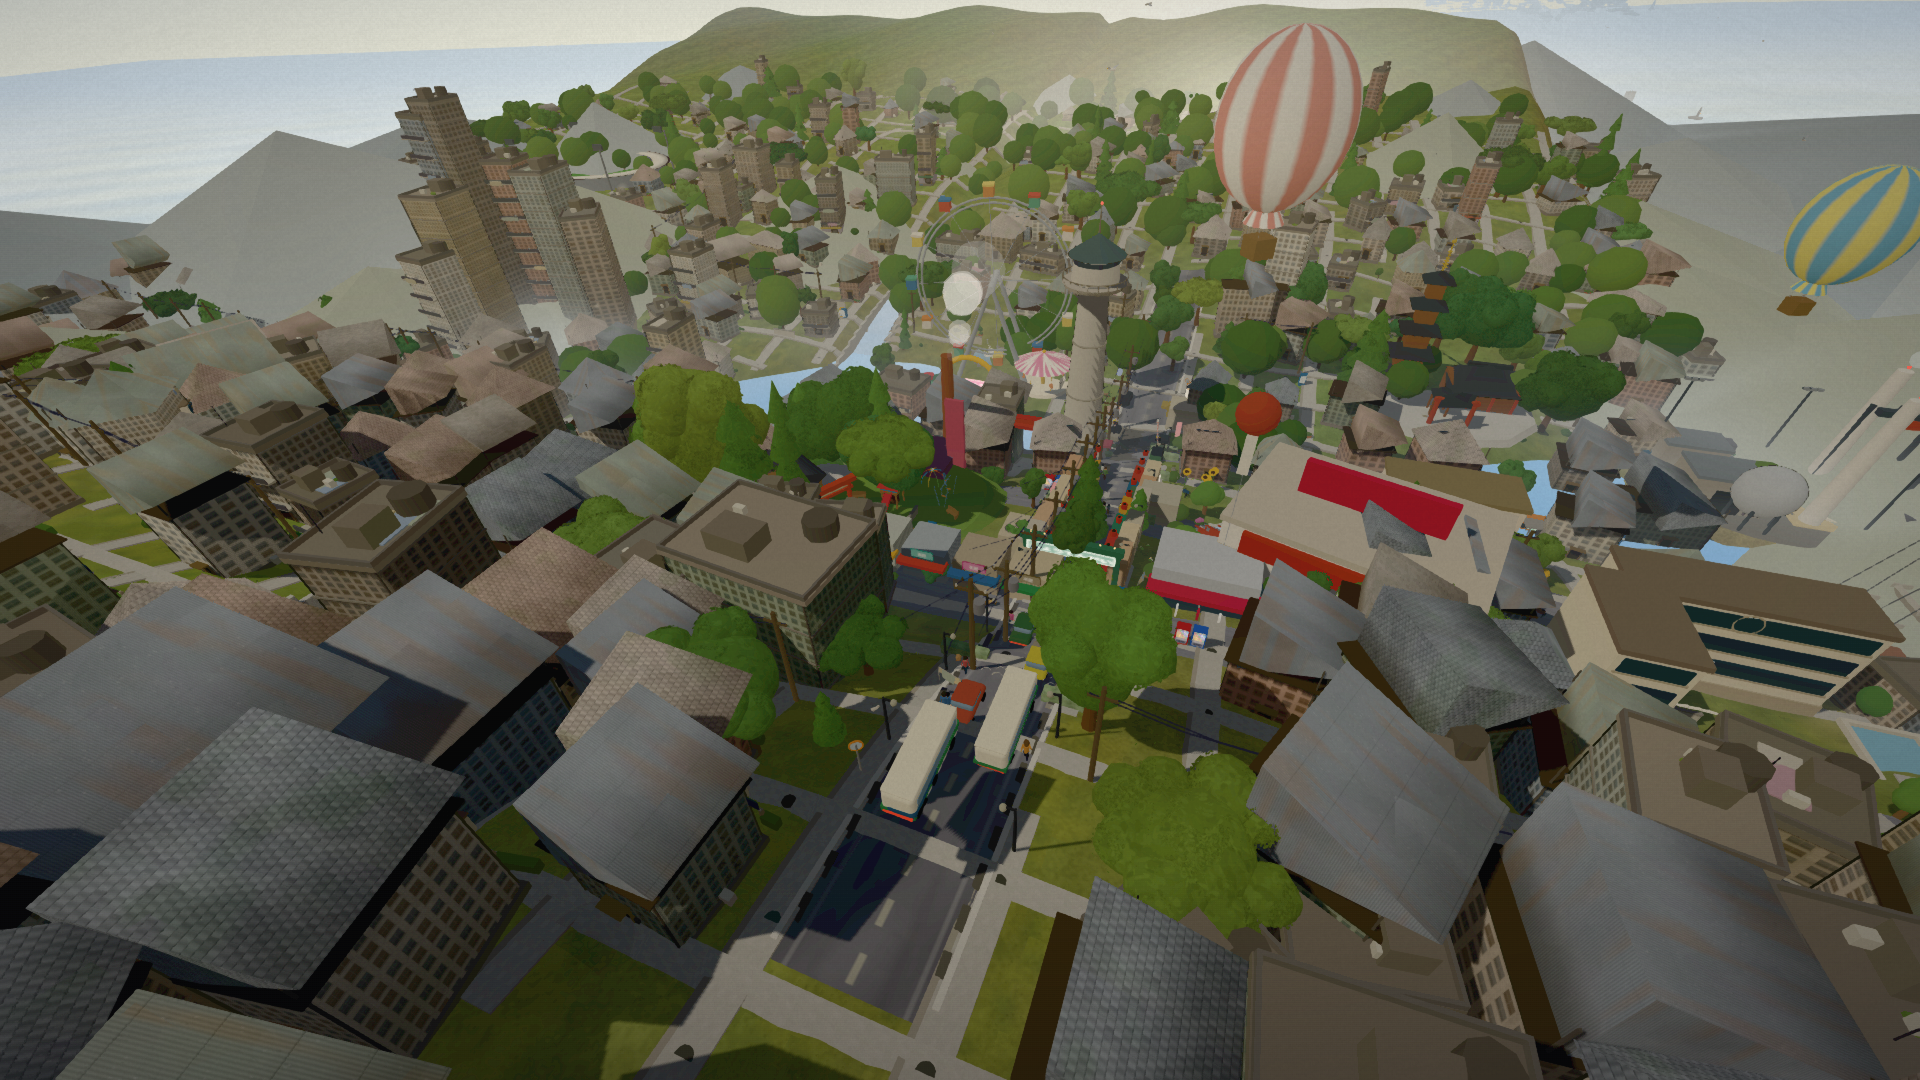
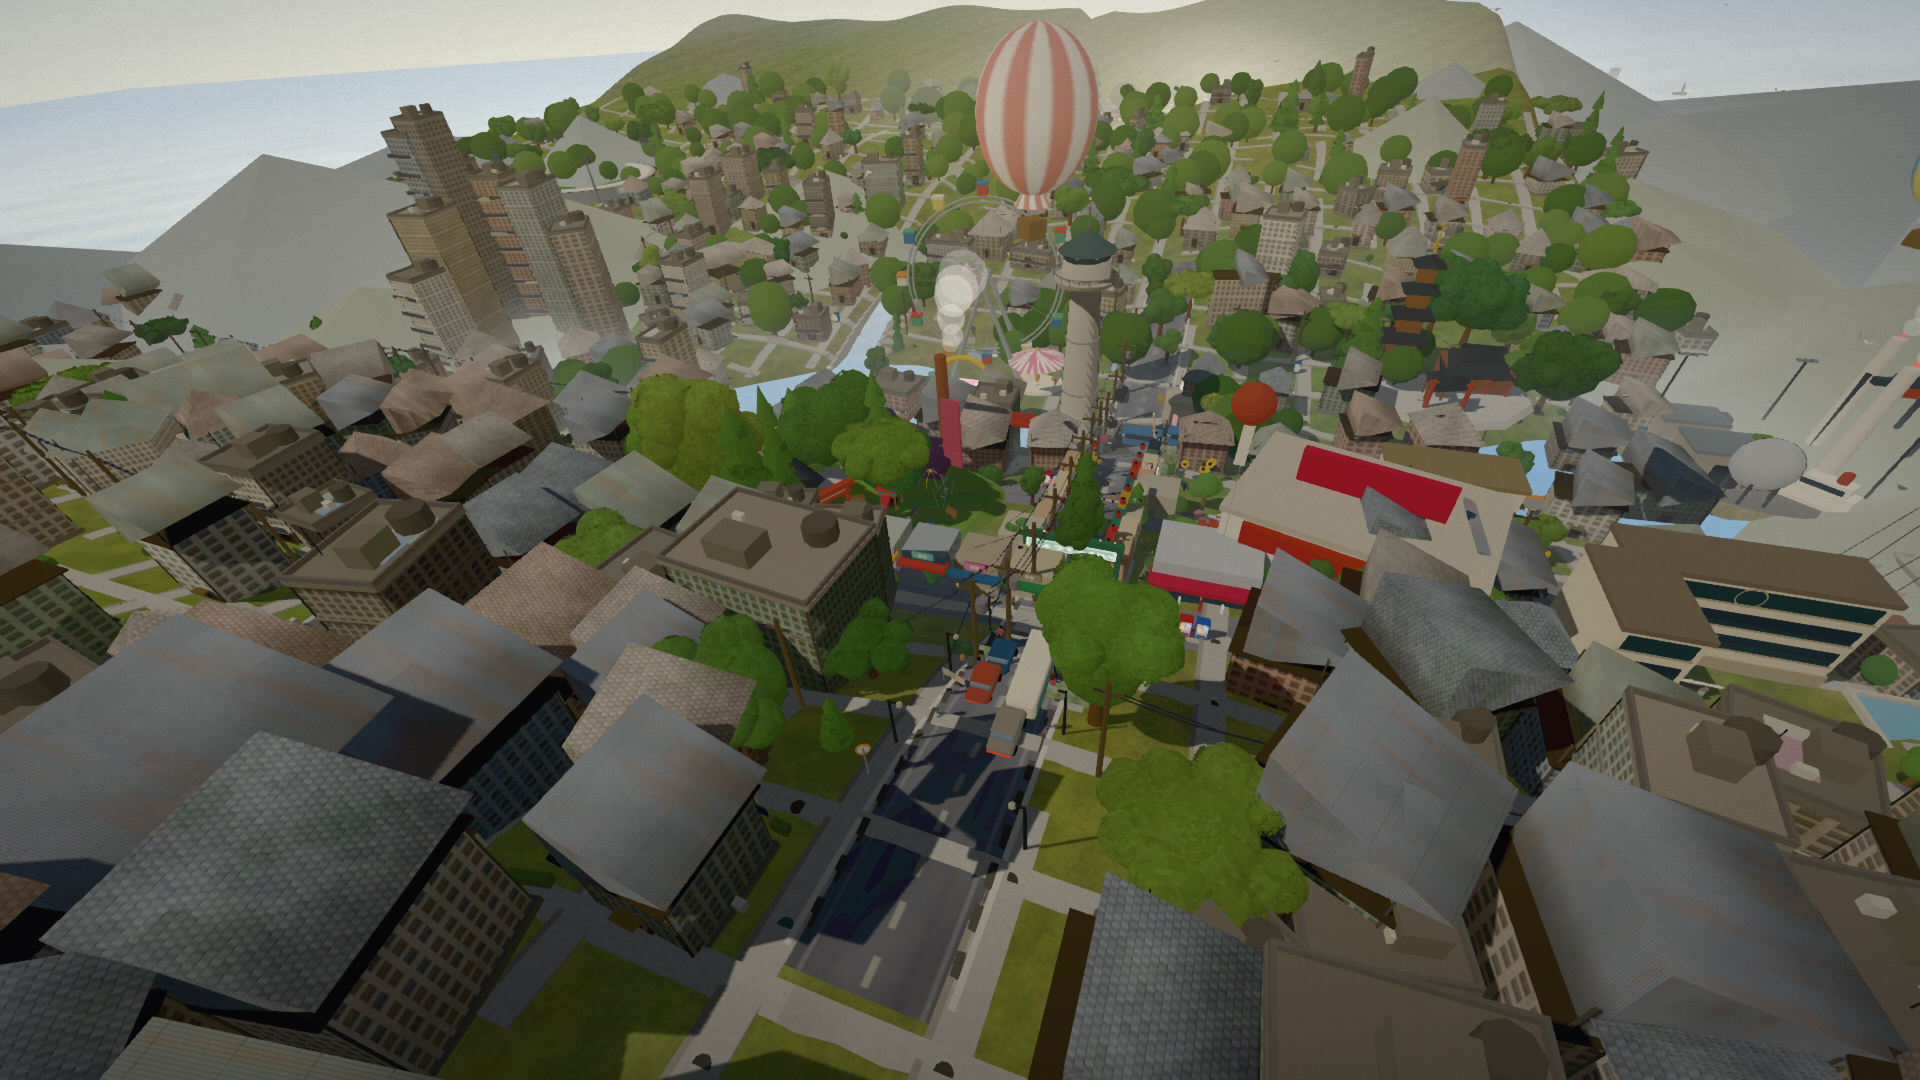
便6: 外の目の指摘の直し（轍の式・壁の微分・秋の紅葉の樹種・杉の葉の板・葉の画の境目）と、T1 に秋・T2 と S2 の物差し
Claude-Session: https://claude.ai/code/session_01YXMEXwQHH6eCMnDjKH4vuF

diff --git a/src/engine/treeCrown.js b/src/engine/treeCrown.js
@@ -1,6 +1,6 @@
 // 木の樹冠の作り（2026-10-13・便6＝便5 #1=2「樹種の形と色の振れ＋葉の模様と縁の葉の板」）。
 // 樹種（丸い広葉樹・傘形・杉檜）と木ごとの色の振れを、木の位置のハッシュで決める＝町を作る乱数 R() を回さない（町の配置を変えない）。
-// 樹冠の大きさは、前の樹冠（主房＋房）が入る箱をそのまま使う（木の高さ・幅・当たり判定は前と同じ）。
+// 樹冠は、前の樹冠（主房＋房）が入る箱を元に作る（幹の位置・当たり判定は前と同じ）。杉檜は箱より上へ細く伸び、傘形は横へ広がる（便5 の案の画どおり）。
 // 葉の模様と縁の葉の板は、1枚の小さな画（左半分＝樹冠の面に貼る詰んだ葉・右半分＝縁に挿す葉の房、葉の外は透明）を材の色で染めて描く。
 // three は町の3Dが後から読み込む（読み込みを分けるため）ので、ここでは取り込まずに受け取る。
 
@@ -22,9 +22,12 @@ const n3 = (x, y, z) => {
 export function makeLeafAtlas(THREE) {
   const c = document.createElement('canvas'); c.width = 256; c.height = 128; const x = c.getContext('2d')
   const rnd = mkRand(0.37)
-  x.fillStyle = 'rgb(205,205,205)'; x.fillRect(0, 0, 128, 128)
+  // 左の不透明の所は 110px まで。右の葉の房（138px から）との間を透明にあけ、遠くの縮小画で左右がにじみ合わないようにする（便6 の外の目）
+  x.save(); x.beginPath(); x.rect(0, 0, 110, 128); x.clip()
+  x.fillStyle = 'rgb(205,205,205)'; x.fillRect(0, 0, 110, 128)
   const leaf = (cx, cy, l, w, a, v) => { x.save(); x.translate(cx, cy); x.rotate(a); x.fillStyle = `rgb(${v},${v},${v})`; x.beginPath(); x.ellipse(0, 0, l, w, 0, 0, 6.283); x.fill(); x.restore() }
   for (let i = 0; i < 520; i++) leaf(rnd() * 128, rnd() * 128, 3 + rnd() * 3.5, 1.6 + rnd() * 1.6, rnd() * 6.283, (165 + rnd() * 90) | 0)
+  x.restore()
   for (let i = 0; i < 150; i++) { const cx = 192 + (rnd() - 0.5) * 100, cy = 64 + (rnd() - 0.5) * 100; if (Math.hypot(cx - 192, cy - 64) > 54) continue; leaf(cx, cy, 4 + rnd() * 4, 2 + rnd() * 2, rnd() * 6.283, (160 + rnd() * 95) | 0) }
   const t = new THREE.CanvasTexture(c); t.anisotropy = 4
   return t
@@ -59,7 +62,7 @@ function crownUV(p, uv) {
     const amin = Math.min(...a), bmin = Math.min(...b), sa = Math.max(...a) - amin, sb = Math.max(...b) - bmin
     const s = Math.min(1, 0.95 / Math.max(sa, sb, 1e-6)) // 大きな三角は縮めて画の1枚に収める
     const oa = (amin - Math.floor(amin)) * Math.max(0, 1 - sa * s), ob = (bmin - Math.floor(bmin)) * Math.max(0, 1 - sb * s)
-    for (let k = 0; k < 3; k++) uv.setXY(t + k, 0.01 + (oa + (a[k] - amin) * s) * 0.47, ob + (b[k] - bmin) * s)
+    for (let k = 0; k < 3; k++) uv.setXY(t + k, 0.02 + (oa + (a[k] - amin) * s) * 0.38, ob + (b[k] - bmin) * s) // 画の左の 0.02〜0.40（不透明の所の内側）
   }
 }
 
@@ -111,13 +114,14 @@ export function buildCrown(THREE, sp, bb, seed, withCards) {
     for (const [px, py, pz, rr] of clumps) {
       const nC = Math.max(4, Math.round(rr * rr * (sp === 'sugi' ? 3 : 6)))
       for (let k = 0; k < nC; k++) {
-        const a = rnd() * 6.283, e = (sp === 'sugi' ? -0.3 : -0.2) + rnd() * 1.4
+        const a = rnd() * 6.283, e = sp === 'sugi' ? -0.35 + rnd() * 0.6 : -0.2 + rnd() * 1.4 // 杉檜は段の裾まわりだけ（上の細った所で円錐から離れて空に浮かないように・便6 の外の目）
         d.set(Math.cos(a) * Math.cos(e), Math.sin(e), Math.sin(a) * Math.cos(e))
         const s = rr * (0.85 + rnd() * 0.4)
         const q = new THREE.PlaneGeometry(s, s)
         m4.lookAt(o, d, Math.abs(d.y) > 0.95 ? side : up)
         q.rotateZ(rnd() * 6.283); q.applyMatrix4(m4)
-        q.translate(px + d.x * rr, py + d.y * rr * (sp === 'kasa' ? 0.62 : 1), pz + d.z * rr)
+        const off = sp === 'sugi' ? rr * 0.95 : rr
+        q.translate(px + d.x * off, py + d.y * rr * (sp === 'kasa' ? 0.62 : 1), pz + d.z * off)
         const uv = q.attributes.uv; for (let i = 0; i < uv.count; i++) uv.setXY(i, 0.5 + uv.getX(i) * 0.5, uv.getY(i))
         parts.push(q); cardTris += 2
       }

diff --git a/src/engine/surfacePattern.js b/src/engine/surfacePattern.js
@@ -39,9 +39,10 @@ vec3 sfPat(vec3 w, vec3 N) {
   m *= mix(1.0, smoothstep(0.0, 0.06, fr) * smoothstep(0.0, 0.03, fc) * smoothstep(1.0, 0.97, fc) * 0.3 + 0.7, fa) * (0.92 + 0.14 * sfH(vec2(floor(row), floor(col))));
   m *= 0.86 + 0.26 * sfN(w.xz * 0.4);
 #elif SF_KIND == 4
+  float wf = sfFade(al * 9.0); // 微分（fwidth）は分岐の外で取る（分岐の中では値が決まらない）
   if (abs(N.y) < 0.6) {
     m *= 0.9 + 0.16 * sfN(vec2(al, w.y) * 0.7);                                   // 漆喰とモルタルの大きなむら
-    m *= mix(1.0, 0.94 + 0.1 * sfN(vec2(al, w.y) * 9.0), sfFade(al * 9.0));         // 細かな粒
+    m *= mix(1.0, 0.94 + 0.1 * sfN(vec2(al, w.y) * 9.0), wf);                       // 細かな粒
     float st = sfN(vec2(al * 3.5, 0.0)) * smoothstep(0.35, 1.0, sfN(vec2(al * 1.3, w.y * 0.22)));
     m *= 1.0 - 0.16 * smoothstep(0.55, 0.9, st);                                   // 雨だれの縦の筋
     m *= mix(vec3(1.0), vec3(0.93, 0.95, 0.9), smoothstep(0.6, 0.9, sfN(vec2(al, w.y) * 0.3 + 3.0)));
@@ -58,7 +59,7 @@ vec3 sfPat(vec3 w, vec3 N) {
   vec2 pc = floor(w.xz * vec2(0.35, 0.12));
   m *= sfH(pc) > 0.72 ? 0.86 : 1.0;                                                 // 補修の跡（四角いつぎはぎ）
   float ck = abs(sfN(w.xz * 0.8) - 0.5); m *= 1.0 - 0.25 * (1.0 - smoothstep(0.0, 0.025, ck)) * sfFade(w.x * 0.8 * 20.0); // ひび
-  m *= 1.0 - 0.08 * exp(-pow(abs(w.x) - 1.7, 2.0) / 0.12);                          // 轍
+  float rd = abs(w.x) - 1.7; m *= 1.0 - 0.08 * exp(-rd * rd / 0.12);              // 轍（負の数の pow は GPU によって値が決まらないので掛け算で）
   m *= 0.9 + 0.16 * sfN(w.xz * 0.25);
 #endif
   return m;

diff --git a/src/engine/town3dViewer.js b/src/engine/town3dViewer.js
@@ -3177,7 +3177,7 @@ export async function mountTown3d(parent, opts = {}) {
       addBox(ox, oy, oz, cr * s, cr * s, cr * s)
     }
     if (!hidden) {
-      const baseM = leafBaseMats[ci], sp = crownSpecies(x, z, baseM.color.r > baseM.color.g * 1.08)
+      const baseM = leafBaseMats[ci], sp = crownSpecies(x, z, baseM.color.r > baseM.color.g * 1.08 && baseM.color.b > baseM.color.g) // 桜（青みのある桃色）だけ。紅葉は青みが無いので樹種を振る（便6 の外の目）
       const crown = buildCrown(THREE, sp, { min: bmin, max: bmax }, posHash(x, z, 1), leafCards)
       bakeCrownColors(THREE, crown, crownTint(x, z, sp), sp) // 上下の陰陽・房の奥の陰・葉の塊の濃淡・木ごとの明るさと黄み〜青み
       const leafMesh = new THREE.Mesh(crown.geo, crownMat(sp === 'sugi' && greenestLeaf ? greenestLeaf : baseM)); leafMesh.castShadow = true

diff --git a/docs/qa/2026-10-13_便6/計画表.md b/docs/qa/2026-10-13_便6/計画表.md
@@ -13,11 +13,11 @@
 |---|---|---|---|---|
 | 0 | 復元地点のコミット | `git log -1 --format=%h 638da84` | [x] | 638da84（段B で作った復元地点。直す前の git status は git-status-before.txt） |
 | 1 | G0 町の配置が変わらない（樹種と色は位置のハッシュ・R() の消費は前と同じ） | `node scripts/qa-bin6.mjs G0`（gate/G0.json: 北寺尾・谷戸・春の3情景で、町を組み終えた時の乱数の状態・祭りの数・木の数と位置の並びが前と同じ） | [ ] | |
-| 2 | T1 樹種の形と色の振れ | `node scripts/qa-bin6.mjs T1`（gate/T1.json: 3樹種がどれも1割以上・丸い広葉樹の中の木ごとの頂点色の明るさの振れが前の3倍以上・春の桜は傘形・低空飛行の木立と丸い木の切り抜きの前との差の平均 ≥ 5）＋画 `docs/確認用スクショ/seasons/2026-10-13_便6/flylow_前.png`・`flylow_後.png` | [ ] | |
-| 3 | T2 葉の模様と縁の葉の板 | `node scripts/qa-bin6.mjs T2`（gate/T2.json: 樹冠の材が葉の画と切り抜きを持ち葉の板の三角がある・歩く目線の樹冠の細かな明暗 ≥ 前＋0.15・低空飛行の木立 ≥ 前＋0.08）＋画 `walk_前.png`・`walk_後.png` | [ ] | |
+| 2 | T1 樹種の形と色の振れ | `node scripts/qa-bin6.mjs T1`（gate/T1.json: 3樹種がどれも1割以上・丸い広葉樹の中の木ごとの頂点色の明るさの振れが前の3倍以上・春の桜は傘形・秋は紅葉でも3樹種に分かれる・低空飛行の木立と丸い木の切り抜きの前との差の平均 ≥ 5）＋画 `docs/確認用スクショ/seasons/2026-10-13_便6/flylow_前.png`・`flylow_後.png` | [ ] | |
+| 3 | T2 葉の模様と縁の葉の板 | `node scripts/qa-bin6.mjs T2`（gate/T2.json: 樹冠の材が葉の画と切り抜きを持ち葉の板の三角がある・4×4画素にまとめて測る明るさで割った細かな明暗が、歩く目線の樹冠で前の1.12倍以上・低空飛行の木立で前の1.15倍以上）＋画 `walk_前.png`・`walk_後.png` | [ ] | |
 | 4 | T3 観葉植物を細長い葉17枚の株に | `node scripts/qa-bin6.mjs T3`（gate/T3.json: 20面の玉4つが無く、葉17枚の株がある・部屋の観葉植物の切り抜きの前との差の平均 ≥ 6）＋画 `room_前.png`・`room_後.png` | [ ] | |
 | 5 | S1 屋根の模様（瓦・トタン・スレート） | `node scripts/qa-bin6.mjs S1`（gate/S1.json: 低空飛行の手前の屋根の細かな明暗 ≥ 前＋0.4）＋画 `flylow_前.png`・`flylow_後.png` | [ ] | |
-| 6 | S2 家の壁の模様 | `node scripts/qa-bin6.mjs S2`（gate/S2.json: 低空飛行の左下の窓のある家の壁の細かな明暗 ≥ 前＋0.2） | [ ] | |
+| 6 | S2 家の壁の模様 | `node scripts/qa-bin6.mjs S2`（gate/S2.json: 低空飛行の左下の窓のある家の壁の、明るさで割った細かな明暗 ≥ 前の1.08倍） | [ ] | |
 | 7 | S3 地面の模様 | `node scripts/qa-bin6.mjs S3`（gate/S3.json: 公園の上 7m から見下ろした芝の、明るさで割った細かな明暗 ≥ 前の1.1倍）＋画 `lawn_前.png`・`lawn_後.png` | [ ] | |
 | 8 | S4 中央の通りの模様 | `node scripts/qa-bin6.mjs S4`（gate/S4.json: 歩く目線で木を隠して影を描き直した手前の通りの、4×4画素にまとめて測る明るさで割った細かな明暗 ≥ 前の2倍）＋画 `walk_notree_前.png`・`walk_notree_後.png`＋画 `walk_前.png`・`walk_後.png` | [ ] | |
 | 9 | FL 動いた時のちらつき | `node scripts/qa-bin6.mjs FL`（gate/FL.json: 低空飛行の眺めをカメラを 0.4m 進めて同じ瞬間に2枚描き、遠くの町の帯の差の平均が前の1.3倍以下） | [ ] | |
